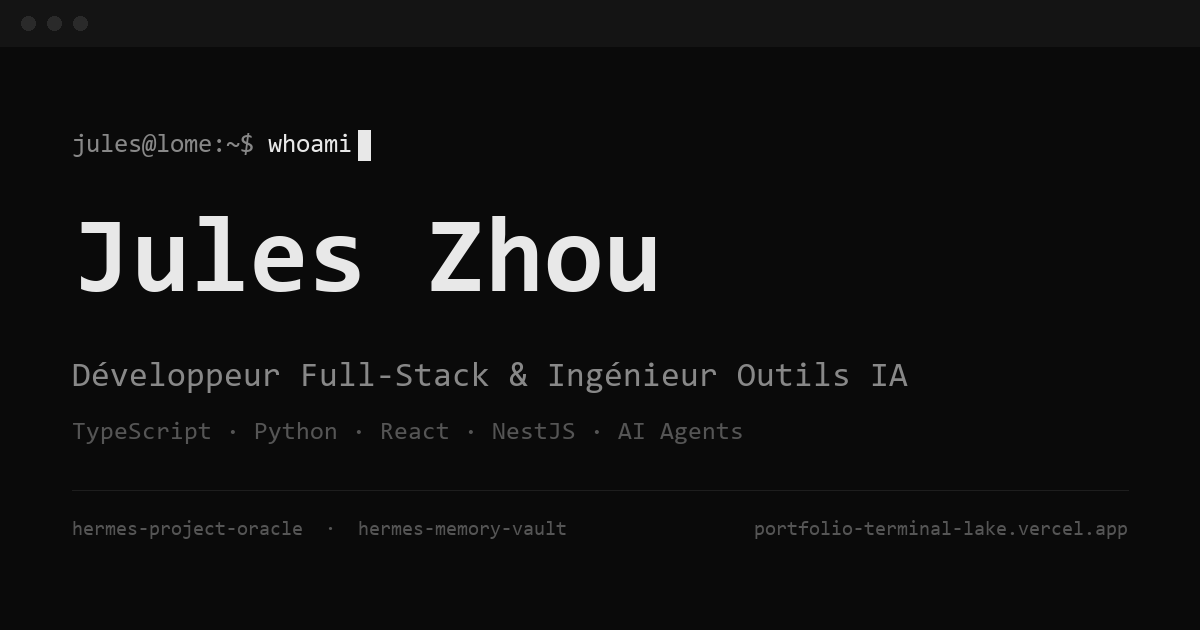
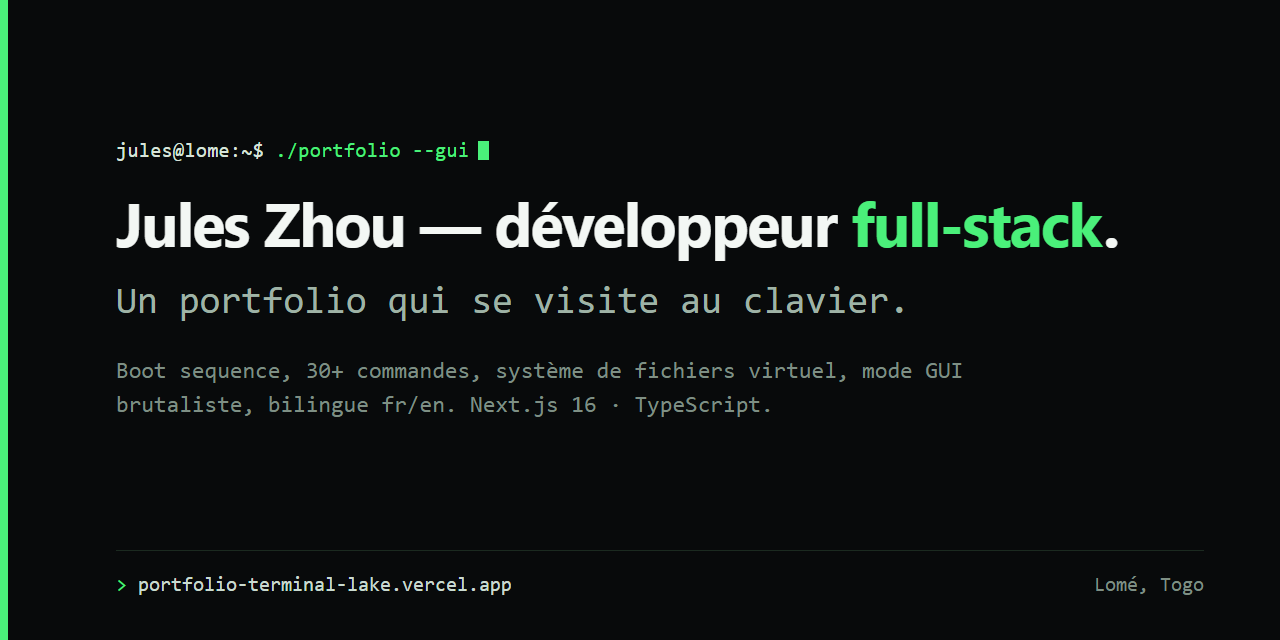
feat(og): show the designed cards on the site and in every share
Three projects now have a real social preview, and the site was still rendering
GitHub's generated placeholder for their tiles. The cards are served from
public/, same origin, so no page view reaches a third party for an image.

- /og.png is the new 1280x640 card (it was a 1200x630 from 12/11), so the link
  to the portfolio itself now opens on the card instead of the old banner.
- /projects/portfolio-terminal.png, xearn.png and project-oracle.png are the
  cards of the three projects that have one.

The other nine keep GitHub's generated card: it is a wide banner too, and a
tile with no image at all would read as unfinished next to three designed ones.

diff --git a/src/lib/data.ts b/src/lib/data.ts
@@ -94,7 +94,7 @@ export const portfolioData = {
       tech: ["Next.js 15", "React 19", "TypeScript", "NestJS", "Prisma", "PostgreSQL", "Expo", "Reanimated", "TailwindCSS", "Docker"],
       github: "https://github.com/iruzen-dono/XEARN",
       live: "",
-      image: "https://opengraph.githubassets.com/1/iruzen-dono/XEARN",
+      image: "/projects/xearn.png",
       year: 2026,
     },
     {
@@ -149,7 +149,7 @@ export const portfolioData = {
       tech: ["Python", "Hermes Agent", "pathlib", "ast", "JSON Schema", "GitHub Actions", "setuptools"],
       github: "https://github.com/iruzen-dono/project-oracle",
       live: "https://pypi.org/project/project-oracle/",
-      image: "https://opengraph.githubassets.com/1/iruzen-dono/project-oracle",
+      image: "/projects/project-oracle.png",
       year: 2026,
     },
     {

diff --git a/src/app/layout.tsx b/src/app/layout.tsx
@@ -32,8 +32,8 @@ export const metadata: Metadata = {
     images: [
       {
         url: "/og.png",
-        width: 1200,
-        height: 630,
+        width: 1280,
+        height: 640,
         alt: "Jules Zhou — Développeur Full-Stack & Ingénieur Outils IA",
       },
     ],
